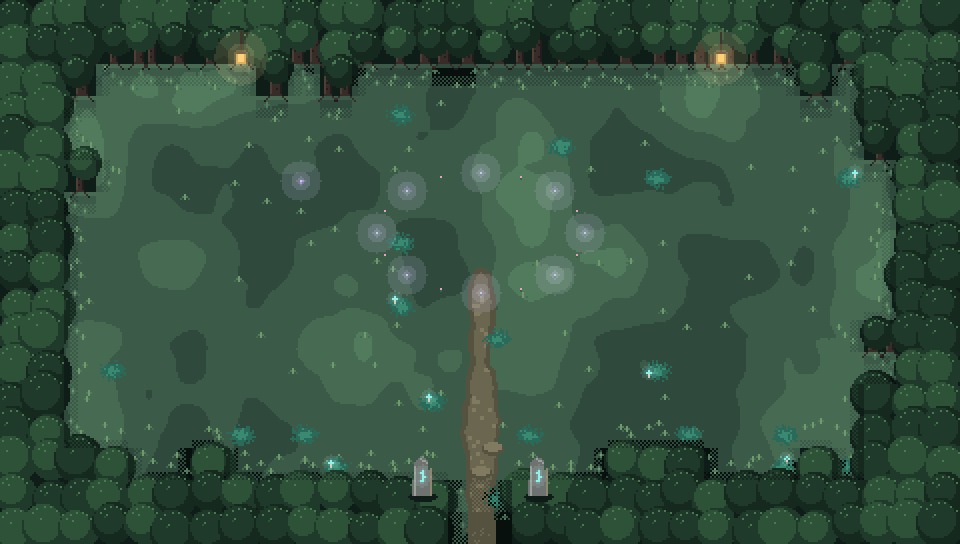
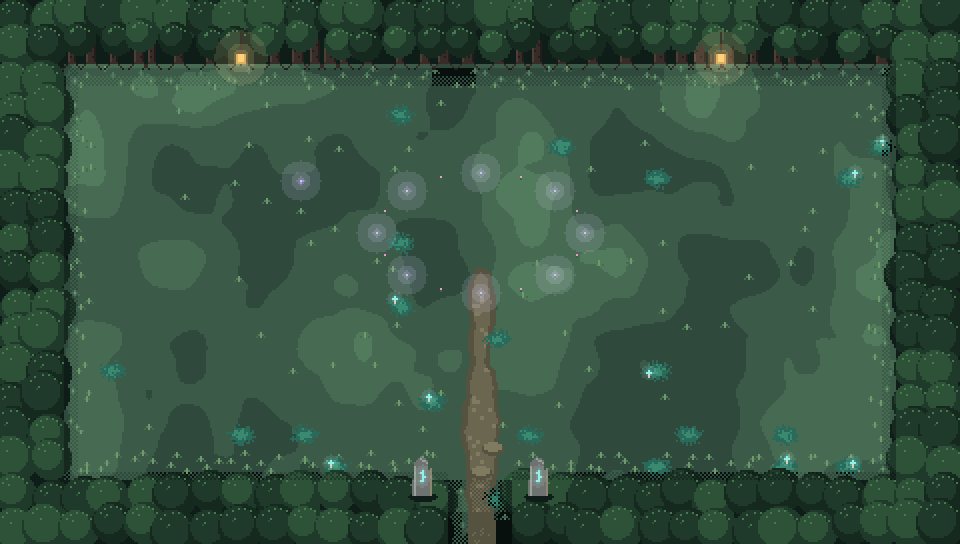
Captifs enchaînés ou liés par des lianes, lisières droites dans le Bois
- Cage : option bind ('chains' | 'vines') qui attache le captif entre deux
  poteaux au lieu d'une cage, et laisse des liens rompus une fois libéré
- Grotte : Amandine enchaînée ; Bois : Claudine liée par des lianes
- Bois des murmures : rough 0 + clean, grilles et décors peints refaits

Claude-Session: https://claude.ai/code/session_01KgRZeWCvSQVkTEWoxAiCQs

diff --git a/tools/donjon-peint/bois.px.js b/tools/donjon-peint/bois.px.js
@@ -212,5 +212,5 @@ const DECOR = {
     }, c => lanterns(c, 120)],
 }
 
-const ROOMS = {"entry": ["WWWWWWWWWWWWWW__WWWWWWWWWWWWWW", "WWWWWWWWWWWWWW__WWWWWWWWWWWWWW", "WWWW___m___W__________W_W_WWWW", "WW__________________________WW", "WW____m_m_____m____________WWW", "WWW_m_s________________s____WW", "WW_________________m________WW", "______________________________", "______________________________", "WW_______m__________________WW", "WW__________________________WW", "WW____s________________s____WW", "WW_________________________WWW", "WW__________________m_______WW", "WWW_WW__WW_W______W____WW__WWW", "WWWWWWWWWWWWWWEEWWWWWWWWWWWWWW", "WWWWWWWWWWWWWWEEWWWWWWWWWWWWWW"], "arena": ["WWWWWWWWWWWWWWWWWWWWWWWWWWWWWW", "WWWWWWWWWWWWWWWWWWWWWWWWWWWWWW", "WWWW__WW_W________W_W_WW___WWW", "WWW_______________m_________WW", "WW___________________m______WW", "WW______s_m__________s_____WWW", "WW________________________m_WW", "____________________________WW", "______________m_____________WW", "WW___m__m_m_________________WW", "WW________________m_________WW", "WW_m__________s_____________WW", "WW__________________________WW", "WW_________________m________WW", "WWW_W________m______W___W__WWW", "WWWWWWWWWWWWWWWWWWWWWWWWWWWWWW", "WWWWWWWWWWWWWWWWWWWWWWWWWWWWWW"], "pond": ["WWWWWWWWWWWWWWWWWWWWWWWWWWWWWW", "WWWWWWWWWWWWWWWWWWWWWWWWWWWWWW", "WWW__W__m__W_______WW___W__WWW", "WW____m_____________________WW", "WW________m__~~~~___m_____m_WW", "WW_______~~~~~~~~~~~~_______WW", "WW__m___~~~~~~~~~~~~~~______WW", "WW_____~~~~~~~~~~~~~~~~_______", "WW_m___~~~~~~~__~~~~~~~_______", "WW_____~~~~~~~~~~~~~~~~_____WW", "WW_m____~~~~~~~~~~~~~~______WW", "WW_______~~~~~~~~~~~~_______WW", "WW___________~~~~_____m_____WW", "WW_________________________WWW", "WWWm__W____W_______W____m__WWW", "WWWWWWWWWWWWWWWWWWWWWWWWWWWWWW", "WWWWWWWWWWWWWWWWWWWWWWWWWWWWWW"], "wind": ["WWWWWWWWWWWWWW__WWWWWWWWWWWWWW", "WWWWWWWWWWWWWW__WWWWWWWWWWWWWW", "WWW_W_W_W__W______W_W_m_m__WWW", "WW__________s_______________WW", "WWW_m__________ms___________WW", "WW___s___________m_s_m__m___WW", "WW____________m____m________WW", "__________s____m_____m______m_", "___________________m____s_m___", "WW____________s__m__________WW", "WWm_________________________WW", "WW______s_________m__s_____WWW", "WW________________m_________WW", "WW_________________________WWW", "WWW__m________m____W_W_W__WWWW", "WWWWWWWWWWWWWW__WWWWWWWWWWWWWW", "WWWWWWWWWWWWWW__WWWWWWWWWWWWWW"], "frisbee": ["WWWWWWWWWWWWWWWWWWWWWWWWWWWWWW", "WWWWWWWWWWWWWWWWWWWWWWWWWWWWWW", "WWW__W__W_________mWW_W____WWW", "WWW_____m__________m________WW", "WW____s________________s____WW", "WWW____________mm___________WW", "WW__________________________WW", "WW___________m________________", "WW____________________________", "WW____________m_____________WW", "WW__________________________WW", "WWW________m____________m___WW", "WW____s________________s___WWW", "WW_____m_______________m____WW", "WWWW_____W__________WW_W___WWW", "WWWWWWWWWWWWWWWWWWWWWWWWWWWWWW", "WWWWWWWWWWWWWWWWWWWWWWWWWWWWWW"], "switches": ["WWWWWWWWWWWWWW__WWWWWWWWWWWWWW", "WWWWWWWWWWWWWW_mWWWWWWWWWWWWWW", "WWWW_____WWW______________WWWW", "WW___s_____s__m___s_____s__WWW", "WW__ms_____s______s_____s___WW", "WW___s_____s______s_____s__WWW", "WW____sssss________sssss____WW", "____________________________WW", "____________________________WW", "WW__________________________WW", "WW__________________________WW", "WW_________________________mWW", "WWW_m_______________m_______WW", "WW______________________m__WWW", "WWWWW______W_______W_____mWWWW", "WWWWWWWWWWWWWWWWWWWWWWWWWWWWWW", "WWWWWWWWWWWWWWWWWWWWWWWWWWWWWW"], "bigkey": ["WWWWWWWWWWWWWWWWWWWWWWWWWWWWWW", "WWWWWWWWWWWWWWWWWWWWWWWWWWWWWW", "WWW_W__WWW________W_m_WW___WWW", "WWW______m__________________WW", "WWW____s_m__________m_s_____WW", "WWW_________________________WW", "WW___________m______________WW", "WW____________m_____________WW", "WW______________________m___WW", "WW__________________________WW", "WW__________m______________WWW", "WW_______________________m_WWW", "WWW____sm_____________s____WWW", "WW___m_____________________WWW", "WWW_______W____m_______WW__WWW", "WWWWWWWWWWWWWW__WWWWWWWWWWWWWW", "WWWWWWWWWWWWWW__WWWWWWWWWWWWWW"], "upper": ["WWWWWWWWWWWWWW__WWWWWWWWWWWWWW", "WWWWWWWWWWWWWW__WWWWWWWWWWWWWW", "WWWWW_W__WW_______W____W_WmWWW", "WW________________m_________WW", "WW_________________________mWW", "WW__s_____s_____s__m__s_____sW", "WW__________________________WW", "____________m_________m_____WW", "________s____________s______WW", "WW__________m_______________WW", "WW_m___s_____s_m___s___m_s_WWW", "WWW________________________WWW", "WWW___m____s______s_________WW", "WW________m________________WWW", "WWW____W_WWW_______W______WWWW", "WWWWWWWWWWWWWW__WWWWWWWWWWWWWW", "WWWWWWWWWWWWWW__WWWWWWWWWWWWWW"], "treasure": ["WWWWWWWWWWWWWWWWWWWWWWWWWWWWWW", "WWWWWWWWWWWWWWWWWWWWWWWWWWWWWW", "WWW______WW________mW______WWW", "WWW_________________________WW", "WW______m__________________WWW", "WWW_____s____________s______WW", "WWm_________________________WW", "WW______________m__________m__", "WW___m________________________", "WW_________m__________m____mWW", "WW__________________________WW", "WWW_____s____________s_____WWW", "WWW______________________mmWWW", "WW_____mm_________m__m_m___WWW", "WWW_mWWW___W________W__W__WWWW", "WWWWWWWWWWWWWWWWWWWWWWWWWWWWWW", "WWWWWWWWWWWWWWWWWWWWWWWWWWWWWW"], "boss": ["WWWWWWWWWWWWWW__WWWWWWWWWWWWWW", "WWWWWWWWWWWWWW__WWWWWWWWWWWWWW", "WWWWW_W__W__________W___W__WWW", "WW______m_____________m____WWW", "WWm_________________________WW", "WWm______m__________________WW", "WW_m_______________m________WW", "WW_m__________________m_____WW", "WW__________________________WW", "WW__________________________WW", "WWWm________________________WW", "WW___m_m___________________WWW", "WW________________m_________WW", "WW__________________________WW", "WWWW___W_W_________W_W_mW__WWW", "WWWWWWWWWWWWWW__WWWWWWWWWWWWWW", "WWWWWWWWWWWWWW__WWWWWWWWWWWWWW"], "prison": ["WWWWWWWWWWWWWWWWWWWWWWWWWWWWWW", "WWWWWWWWWWWWWWWWWWWWWWWWWWWWWW", "WWW_____W_W______________W_WWW", "WW__________m______________WWW", "WW_______________m_________WWW", "WWW_________________m_____m_WW", "WW__________________________WW", "WW__________m_______________WW", "WW__________________________WW", "WW__________m_______________WW", "WW_____________m___________WWW", "WW_m________________m_______WW", "WW___________m_____________WWW", "WW_____m_m______m____m__m__WWW", "WWWW__W___m________WWW__mWmWWW", "WWWWWWWWWWWWWW_mWWWWWWWWWWWWWW", "WWWWWWWWWWWWWW__WWWWWWWWWWWWWW"]};
+const ROOMS = {"entry": ["WWWWWWWWWWWWWW__WWWWWWWWWWWWWW", "WWWWWWWWWWWWWW__WWWWWWWWWWWWWW", "WW_____m____________________WW", "WW__________________________WW", "WW____m_m_____m_____________WW", "WWm_m_s________________s____WW", "WW_________________m________WW", "______________________________", "______________________________", "WW_______m__________________WW", "WW__________________________WW", "WW____s________________s____WW", "WW__________________________WW", "WW__________________m_______WW", "WW_____________________m____WW", "WWWWWWWWWWWWWWEEWWWWWWWWWWWWWW", "WWWWWWWWWWWWWWEEWWWWWWWWWWWWWW"], "arena": ["WWWWWWWWWWWWWWWWWWWWWWWWWWWWWW", "WWWWWWWWWWWWWWWWWWWWWWWWWWWWWW", "WW________________m_________WW", "WW________________m_________WW", "WW___________________m______WW", "WW______s_m__________s______WW", "WW________________________m_WW", "____________________________WW", "______________m_____________WW", "WW___m__m_m_________________WW", "WW________________m_________WW", "WW_m__________s_____________WW", "WW__________________________WW", "WW_________________m________WW", "WW___________m______________WW", "WWWWWWWWWWWWWWWWWWWWWWWWWWWWWW", "WWWWWWWWWWWWWWWWWWWWWWWWWWWWWW"], "pond": ["WWWWWWWWWWWWWWWWWWWWWWWWWWWWWW", "WWWWWWWWWWWWWWWWWWWWWWWWWWWWWW", "WW______m___________________WW", "WW____m_____________________WW", "WW________m__~~~~___m_____m_WW", "WW_______~~~~~~~~~~~~_______WW", "WW__m___~~~~~~~~~~~~~~______WW", "WW_____~~~~~~~~~~~~~~~~_______", "WW_m___~~~~~~~__~~~~~~~_______", "WW_____~~~~~~~~~~~~~~~~_____WW", "WW_m____~~~~~~~~~~~~~~______WW", "WW_______~~~~~~~~~~~~_______WW", "WW___________~~~~_____m_____WW", "WW__________________________WW", "WW_m____________________m___WW", "WWWWWWWWWWWWWWWWWWWWWWWWWWWWWW", "WWWWWWWWWWWWWWWWWWWWWWWWWWWWWW"], "wind": ["WWWWWWWWWWWWWW__WWWWWWWWWWWWWW", "WWWWWWWWWWWWWW__WWWWWWWWWWWWWW", "WW____________________m_m___WW", "WW__________s_______________WW", "WW__m__________ms___________WW", "WW___s___________m_s_m__m___WW", "WW____________m____m________WW", "__________s____m_____m______m_", "___________________m____s_m___", "WW____________s__m__________WW", "WWm_________________________WW", "WW______s_________m__s_____mWW", "WW________________m_________WW", "WW_________________________mWW", "WW___m________m________m____WW", "WWWWWWWWWWWWWW__WWWWWWWWWWWWWW", "WWWWWWWWWWWWWW__WWWWWWWWWWWWWW"], "frisbee": ["WWWWWWWWWWWWWWWWWWWWWWWWWWWWWW", "WWWWWWWWWWWWWWWWWWWWWWWWWWWWWW", "WW________________m_________WW", "WW______m__________m________WW", "WW____s________________s____WW", "WW_____________mm___________WW", "WW__________________________WW", "WW___________m________________", "WW____________________________", "WW____________m_____________WW", "WW__________________________WW", "WW_________m____________m___WW", "WW____s________________s____WW", "WW_____m_______________m____WW", "WW__________________________WW", "WWWWWWWWWWWWWWWWWWWWWWWWWWWWWW", "WWWWWWWWWWWWWWWWWWWWWWWWWWWWWW"], "switches": ["WWWWWWWWWWWWWW__WWWWWWWWWWWWWW", "WWWWWWWWWWWWWW_mWWWWWWWWWWWWWW", "WW__________________________WW", "WW___s_____s__m___s_____s___WW", "WW__ms_____s______s_____s___WW", "WW___s_____s______s_____s___WW", "WW____sssss________sssss____WW", "____________________________WW", "____________________________WW", "WW__________________________WW", "WW__________________________WW", "WW_________________________mWW", "WW__m_______________m_______WW", "WW______________________m___WW", "WW_______________________m__WW", "WWWWWWWWWWWWWWWWWWWWWWWWWWWWWW", "WWWWWWWWWWWWWWWWWWWWWWWWWWWWWW"], "bigkey": ["WWWWWWWWWWWWWWWWWWWWWWWWWWWWWW", "WWWWWWWWWWWWWWWWWWWWWWWWWWWWWW", "WW__________________m_______WW", "WW_______m__________________WW", "WW_____s_m__________m_s_____WW", "WW__________________________WW", "WW___________m______________WW", "WW____________m_____________WW", "WW______________________m___WW", "WW__________________________WW", "WW__________m_______________WW", "WW_______________________m__WW", "WWm____sm_____________s_____WW", "WW___m______________________WW", "WW_____________m____________WW", "WWWWWWWWWWWWWW__WWWWWWWWWWWWWW", "WWWWWWWWWWWWWW__WWWWWWWWWWWWWW"], "upper": ["WWWWWWWWWWWWWW__WWWWWWWWWWWWWW", "WWWWWWWWWWWWWW__WWWWWWWWWWWWWW", "WW_____________________m__m_WW", "WW________________m_________WW", "WW_________________________mWW", "WW__s_____s_____s__m__s_____sW", "WW__________________________WW", "____________m_________m_____WW", "________s____________s______WW", "WW__________m_______________WW", "WW_m___s_____s_m___s___m_s__WW", "WW__________________________WW", "WW____m____s______s_________WW", "WW________m_________________WW", "WWm________________m________WW", "WWWWWWWWWWWWWW__WWWWWWWWWWWWWW", "WWWWWWWWWWWWWW__WWWWWWWWWWWWWW"], "treasure": ["WWWWWWWWWWWWWWWWWWWWWWWWWWWWWW", "WWWWWWWWWWWWWWWWWWWWWWWWWWWWWW", "WW_________________m________WW", "WW__________________________WW", "WW______m___________________WW", "WW______s____________s______WW", "WWm_________________________WW", "WW______________m__________m__", "WW___m________________________", "WW_________m__________m____mWW", "WW__________________________WW", "WW______s____________s______WW", "WW_______________________mm_WW", "WW_____mm_________m__m_m____WW", "WW__m_______________________WW", "WWWWWWWWWWWWWWWWWWWWWWWWWWWWWW", "WWWWWWWWWWWWWWWWWWWWWWWWWWWWWW"], "boss": ["WWWWWWWWWWWWWW__WWWWWWWWWWWWWW", "WWWWWWWWWWWWWW__WWWWWWWWWWWWWW", "WW_m____________________m___WW", "WW______m_____________m_____WW", "WWm_________________________WW", "WWm______m__________________WW", "WW_m_______________m________WW", "WW_m__________________m_____WW", "WW__________________________WW", "WW__________________________WW", "WW_m________________________WW", "WW___m_m____________________WW", "WW________________m_________WW", "WW__________________________WW", "WW_____m_______________m____WW", "WWWWWWWWWWWWWW__WWWWWWWWWWWWWW", "WWWWWWWWWWWWWW__WWWWWWWWWWWWWW"], "prison": ["WWWWWWWWWWWWWWWWWWWWWWWWWWWWWW", "WWWWWWWWWWWWWWWWWWWWWWWWWWWWWW", "WW__________________________WW", "WW__________m_______________WW", "WW_______________m_________mWW", "WW__________________m_____m_WW", "WW__________________________WW", "WW__________m_______________WW", "WW__________________________WW", "WW__________m_______________WW", "WW_____________m____________WW", "WW_m________________m_______WW", "WW___________m______________WW", "WW_____m_m______m____m__m___WW", "WW________m_________m___m_m_WW", "WWWWWWWWWWWWWW_mWWWWWWWWWWWWWW", "WWWWWWWWWWWWWW__WWWWWWWWWWWWWW"]};
 for (const [n, grid] of Object.entries(ROOMS)) room('bois_' + n, grid, DECOR[n][0], DECOR[n][1])

diff --git a/src/actors.js b/src/actors.js
@@ -252,12 +252,34 @@ class Cage {
   interact(G) { if (!SAVE[this.o.boss]) G.say(Story.script('captive_cage' + (this.o.n > 1 ? this.o.n : ''))); else G.freeCaptive(this.o.n); }
   update(dt) { this.t += dt; }
   draw() {
+    if (this.o.bind) return this.drawBound();
     ell(this.x, this.y, 18, 4, 'rgba(0,0,0,.45)');
     if (!this.open) this.o.drawCaptive(this.x, this.y - 3, this.t);
     hi(this.x, this.y, false, () => {
       D(-34, -6, 68, 6, '#3a3d48'); D(-34, -6, 68, 2, '#6a6e7a');
       if (!this.open) { for (let i = 0; i < 7; i++) D(-32 + i * 10, -76, 4, 72, '#5a5e6a'); D(-34, -80, 68, 6, '#3a3d48'); D(-34, -80, 68, 2, '#6a6e7a'); D(-6, -42, 12, 10, '#c8a040'); D(-2, -38, 4, 4, '#3a2410'); }
       else { for (let i = 0; i < 7; i++) D(-32 + i * 10, -14 - (i % 3) * 3, 4, 10, '#5a5e6a'); }
+    });
+  }
+  // o.bind : 'chains' (chaînes scellées à deux poteaux de pierre) ou 'vines' (lianes nouées à deux pieux de bois) au lieu d'une cage
+  drawBound() {
+    const ch = this.o.bind === 'chains', A = ch ? '#4a4e5a' : '#2f6a3a', B = ch ? '#8a8e9a' : '#5aa060', open = this.open;
+    const rope = (x0, y0, x1, y1, sag = 0) => { const n = Math.max(2, Math.round(Math.hypot(x1 - x0, y1 - y0) / (ch ? 5 : 4))); for (let i = 0; i <= n; i++) { const k = i / n, x = x0 + (x1 - x0) * k, y = y0 + (y1 - y0) * k + Math.sin(k * Math.PI) * sag; if (ch) D(Math.round(x) - 2, Math.round(y) - 1, 4, 3, i % 2 ? A : B); else { D(Math.round(x) - 1, Math.round(y) - 1, 3, 3, A); if (i % 3 === 1) D(Math.round(x) + 1, Math.round(y) - 3, 3, 2, B); } } };
+    const post = x => {
+      if (ch) { D(x - 5, -46, 10, 46, '#5a5468'); D(x - 5, -46, 2, 46, '#8a8498'); D(x + 3, -44, 2, 44, '#3a3448'); D(x - 6, -50, 12, 4, '#8a8498'); D(x - 2, -36, 4, 4, '#2a2a34'); }
+      else { D(x - 4, -48, 8, 48, '#4e3e34'); D(x - 4, -48, 2, 48, '#6a5444'); D(x + 2, -46, 2, 46, '#2a201c'); D(x - 3, -52, 6, 4, '#4e3e34'); D(x - 6, -2, 4, 2, '#4e3e34'); D(x + 2, -2, 4, 2, '#4e3e34'); rope(x, -44, x - 2, -8, 2); }
+    };
+    ell(this.x, this.y, 22, 4, 'rgba(0,0,0,.45)');
+    hi(this.x, this.y, false, () => { post(-32); post(32); });
+    if (!open) this.o.drawCaptive(this.x, this.y - 3, this.t);
+    hi(this.x, this.y, false, () => {
+      if (!open) {
+        rope(-30, -36, -9, -26, 6); rope(30, -36, 9, -26, 6);                          // aux poignets
+        rope(-10, -18, 10, -18); if (ch) { D(-3, -21, 6, 6, '#c8a040'); D(-1, -19, 2, 2, '#3a2410'); } // autour de la taille (cadenas pour les chaînes)
+      } else {
+        rope(-30, -36, -26, -4, 3); rope(30, -36, 26, -4, 3);                          // liens rompus, pendants
+        for (const [x, y] of [[-12, -3], [8, -2], [14, -4]]) D(x, y, 4, 3, A);         // morceaux tombés
+      }
     });
   }
 }

diff --git a/src/bois.js b/src/bois.js
@@ -343,7 +343,7 @@ class DrawbridgeDeco { // poteaux du pont-levis, et le tablier relevé tant qu'i
 const BOIS_PAINTED = ['entry', 'arena', 'pond', 'wind', 'frisbee', 'switches', 'bigkey', 'upper', 'treasure', 'boss', 'prison'];
 function buildBoisArea() {
   return makeDungeon({
-    id: 'bois', zone: 'foret', name: 'Le Bois des murmures', theme: 'forest', seed: 33, rough: 0.3, moss: 420, dark: 0.36,
+    id: 'bois', zone: 'foret', name: 'Le Bois des murmures', theme: 'forest', seed: 33, rough: 0, clean: true, moss: 420, dark: 0.36, // lisières droites (salles peintes)
     bossFlag: 'boss2', heartFlag: 'heart3', potLoot: 'potBois', paintRooms: Object.fromEntries(BOIS_PAINTED.map(n => [n, 'bois_' + n])),
     rooms: { entry: [2, 3], arena: [3, 3], pond: [1, 3], wind: [2, 2], frisbee: [1, 2], switches: [3, 2], bigkey: [3, 1], upper: [2, 1], treasure: [1, 1], boss: [2, 0] },
     entry: 'entry', boss: 'boss',
@@ -392,7 +392,7 @@ function buildBoisArea() {
         ['bigkey', new Shutter(h.door('bigkey', 'S').x, h.door('bigkey', 'S').y, 'v', () => G.area.arenaOn === h.R.bigkey)],
         ['bigkey', new Chest(bc.x, bc.y, { flag: 'boisBigKey', give: 'bigkey:bois', big: true, reveal: 'arenaBK', msg: [{ text: 'La grande clé du bois ! Elle ouvre le nid du Grand-Duc.' }] })],
         ['treasure', mk(Chest, 'treasure', 14, 8, { flag: 'boisTreasure', give: 'money:50', msg: [{ text: 'Un trésor d\'écureuil : 50 écus !' }] })],
-        ['prison', new Cage(cg.x, cg.y, { n: 2, boss: 'boss2', drawCaptive: (x, y) => drawSprite('claudine', x, y) })],
+        ['prison', new Cage(cg.x, cg.y, { n: 2, boss: 'boss2', bind: 'vines', drawCaptive: (x, y) => drawSprite('claudine', x, y) })],
         ...sh('entry', [[3, 7], [26, 9]]), ...sh('arena', [[3, 8], [26, 6]]), ...sh('pond', [[3, 6], [26, 8]]), ...sh('wind', [[3, 8], [26, 6]]), ...sh('frisbee', [[9, 9], [20, 9]]),
         ...sh('switches', [[3, 8], [26, 8]]), ...sh('upper', [[3, 8], [26, 8]]), ...sh('treasure', [[14, 4]]), ...sh('bigkey', [[3, 8], [26, 8]]), ...sh('boss', [[3, 3], [26, 3], [3, 13], [26, 13]]),
       ];

diff --git a/src/cave.js b/src/cave.js
@@ -57,7 +57,7 @@ function buildCaveArea() {
         ['bigkey', new Shutter(h.door('bigkey', 'S').x, h.door('bigkey', 'S').y, 'v', () => G.area.arenaOn === h.R.bigkey)],
         ['bigkey', new Chest(bc.x, bc.y, { flag: 'caveBigKey', give: 'bigkey:cave', big: true, reveal: 'caveBigArena', msg: [{ text: 'La grande clé de la grotte ! Elle ouvre la porte du gardien.' }] })],
         ['treasure', mk(Chest, 'treasure', 14, 7, { flag: 'caveTreasure', give: 'money:50', msg: [{ text: 'Un trésor oublié : 50 écus !' }] })],
-        ['prison', new Cage(cg.x, cg.y, { n: 1, boss: 'boss', drawCaptive: (x, y) => drawSprite('amandine', x, y) })],
+        ['prison', new Cage(cg.x, cg.y, { n: 1, boss: 'boss', bind: 'chains', drawCaptive: (x, y) => drawSprite('amandine', x, y) })],
         ...br('entry', [[11, 3], [18, 3]]), ...br('arena', [[4, 7], [25, 9]]), ...br('hub', [[4, 3], [25, 3]]), ...br('block', [[11, 3], [18, 3]]), ...br('sling', [[10, 7], [19, 7]]),
         ...br('chasm', [[4, 11], [25, 11], [5, 2]]), ...br('twin', [[3, 3], [26, 3]]), ...br('treasure', [[14, 3]]), ...br('boss', [[4, 3], [25, 3], [4, 13], [25, 13]]),
       ];

diff --git a/README.md b/README.md
@@ -27,7 +27,7 @@ PWA jouable en paysage sur mobile, ordinateur et manette.
 - **Donjon 6, le Château de Minuit** (défilé au sud-ouest du lac, éboulement à faire sauter) : 4 × 3 salles, horloges qui figent la salle, une aile par outil pour les cinq sceaux, le Chevalier Minuit (Papa ensorcelé), le Roi Minuit en 3 phases, le lever du soleil, le retour au camping et le générique.
 
 ## Version 8 : la grande mise à jour
-- **8.14.6** : le Bois des murmures (donjon 2) devient une forêt magique peinte, collisions inchangées : canopée vue de dessus, troncs et racines en lisière, sol moussu sous la lune tamisée, sentiers battus entre les sorties, pierres levées à rune luisante de part et d'autre de chaque passage, lanternes suspendues par paires, souches à cernes, mousse et champignons luisants ; chaque salle a son identité (feux follets à l'entrée, cercle de fées dans l'arène, nénuphars, roseaux et îlot fleuri à l'étang, feuilles couchées par le vent et meule fendue au moulin, cercle de dalles runiques autour du frisbee, racines luisantes entre les lanternes, nid du Corbeau géant, réseau de racines dans les hauteurs, noisettes des écureuils au trésor, nid du Grand-Duc) ; l'extracteur de grilles accepte n'importe quel donjon.
+- **8.14.6** : le Bois des murmures (donjon 2) devient une forêt magique peinte, lisières droites (option `clean`, sans bois qui dépassent) : canopée vue de dessus, troncs et racines en lisière, sol moussu sous la lune tamisée, sentiers battus entre les sorties, pierres levées à rune luisante de part et d'autre de chaque passage, lanternes suspendues par paires, souches à cernes, mousse et champignons luisants ; chaque salle a son identité (feux follets à l'entrée, cercle de fées dans l'arène, nénuphars, roseaux et îlot fleuri à l'étang, feuilles couchées par le vent et meule fendue au moulin, cercle de dalles runiques autour du frisbee, racines luisantes entre les lanternes, nid du Corbeau géant, réseau de racines dans les hauteurs, noisettes des écureuils au trésor, nid du Grand-Duc) ; l'extracteur de grilles accepte n'importe quel donjon ; les captifs ne sont plus en cage dans ces deux donjons : Amandine est enchaînée entre deux poteaux de pierre dans la Grotte, Claudine attachée par des lianes entre deux pieux dans le Bois (option `bind` de `Cage`, liens rompus une fois libérés).
 - **8.14.5** : retouches de la Grotte des lucioles : murs droits (plus de blocs qui dépassent, option `clean` du générateur de donjons), grand mur nord, pierre calcaire plus claire et donjon moins sombre pour que la Grande Ombre et les spectres ressortent, seuils de porte marqués (piédroits, linteau, dalle à liseré de bronze), bannières toujours par paires symétriques ; stèles en tablettes gravées qu'on lit ; piédestaux des gros coffres en trois marches rondes empilées ; flammes et lueurs des feux désynchronisées ; dans tout le jeu, les objets tombés au sol ne disparaissent plus.
 - **8.14.4** : toute la Grotte des lucioles est repeinte façon donjon médiéval, collisions inchangées : maçonnerie, dalles, contreforts, colonnes brisées, mousse luminescente dans les joints ; chaque salle a son identité (bannières de l'ordre des lucioles à l'entrée, piste de gravier cerclée dans l'arène, rosace dorée et chevrons vers les sorties au carrefour, sillons laissés par le bloc et runes gravées, estrade et tapis royal du lance-pierre, canal noir et chaînes du gouffre avec son pont de bois, bassins à margelle des deux yeux, cercle runique et socles de cristal de la grande clé, liseré doré et pièces renversées du trésor, cratère fendu par la Grande Ombre, paille et jours comptés dans la cellule d'Amandine) ; `paintRooms` accepte une variante selon la sauvegarde (le gouffre avec son pont abaissé).
 - **8.14.3** : les Dunes deviennent une carte peinte, dessinée en pixel art natif avec pxl (`tools/peintre/pxl/`) sur la mise en page du peintre : prairie olive, plaques de sable ridées, chemin de terre avec ornières, étang à trois profondeurs avec berge, roseaux et nénuphars, arbres en grappes, palmiers, forêt en lisière ; collisions identiques à la version en tuiles, découpes « dessus » pour les arbres de lisière et les palmiers.
